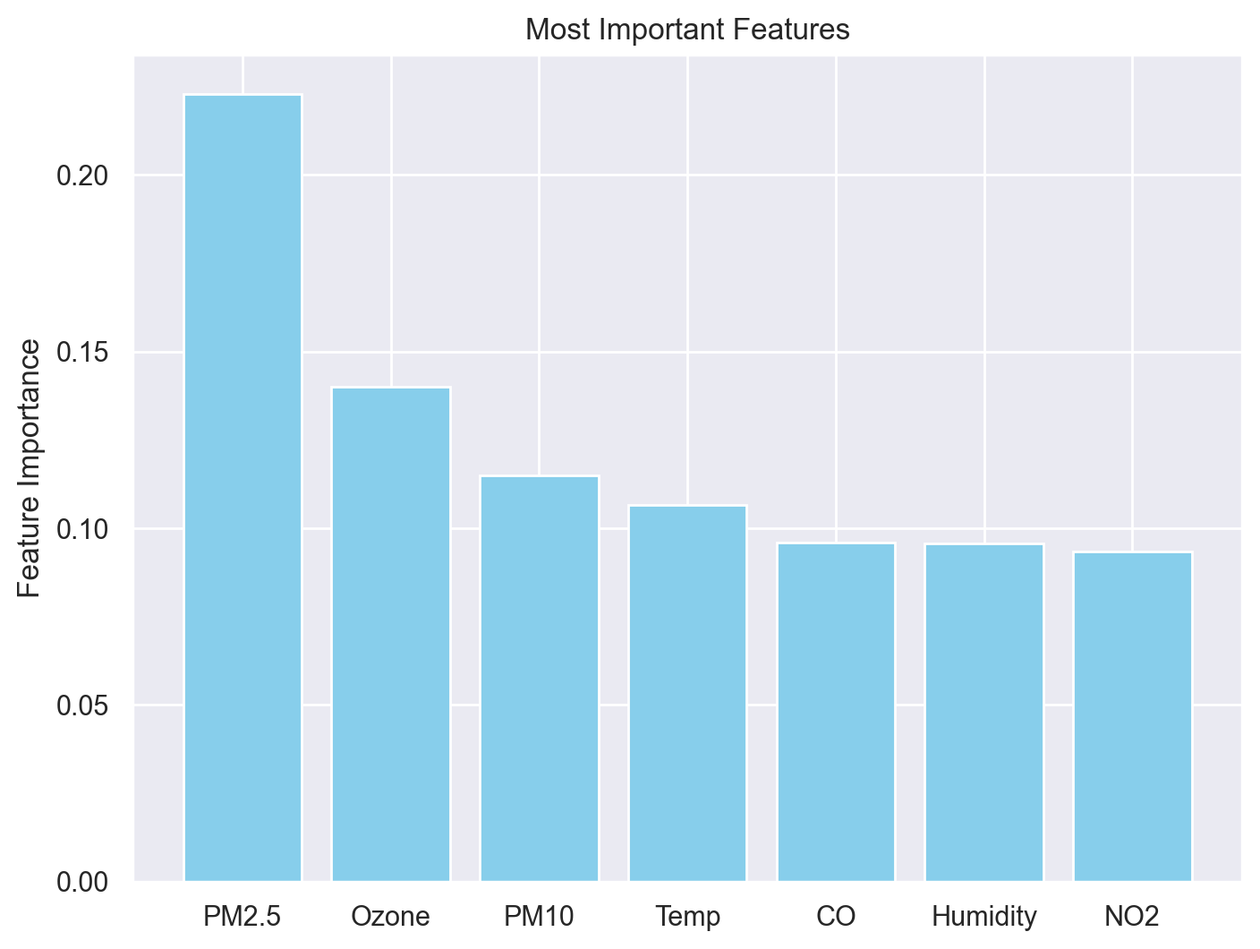
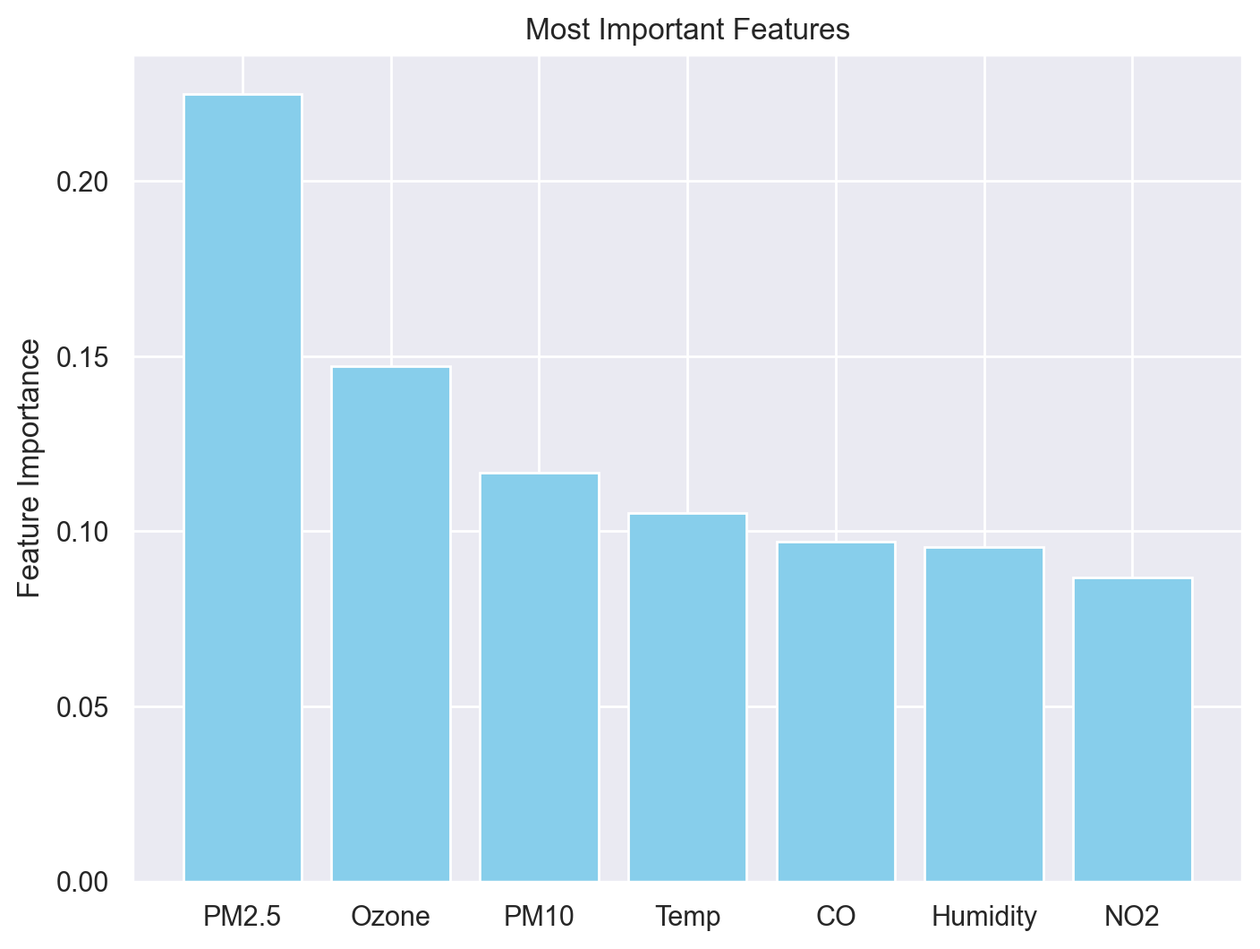
Built site for gh-pages

diff --git a/capstone.html b/capstone.html
@@ -24,40 +24,6 @@ ul.task-list li input[type="checkbox"] {
   margin: 0 0.8em 0.2em -1em; /* quarto-specific, see https://github.com/quarto-dev/quarto-cli/issues/4556 */ 
   vertical-align: middle;
 }
-/* CSS for syntax highlighting */
-pre > code.sourceCode { white-space: pre; position: relative; }
-pre > code.sourceCode > span { line-height: 1.25; }
-pre > code.sourceCode > span:empty { height: 1.2em; }
-.sourceCode { overflow: visible; }
-code.sourceCode > span { color: inherit; text-decoration: inherit; }
-div.sourceCode { margin: 1em 0; }
-pre.sourceCode { margin: 0; }
-@media screen {
-div.sourceCode { overflow: auto; }
-}
-@media print {
-pre > code.sourceCode { white-space: pre-wrap; }
-pre > code.sourceCode > span { display: inline-block; text-indent: -5em; padding-left: 5em; }
-}
-pre.numberSource code
-  { counter-reset: source-line 0; }
-pre.numberSource code > span
-  { position: relative; left: -4em; counter-increment: source-line; }
-pre.numberSource code > span > a:first-child::before
-  { content: counter(source-line);
-    position: relative; left: -1em; text-align: right; vertical-align: baseline;
-    border: none; display: inline-block;
-    -webkit-touch-callout: none; -webkit-user-select: none;
-    -khtml-user-select: none; -moz-user-select: none;
-    -ms-user-select: none; user-select: none;
-    padding: 0 4px; width: 4em;
-  }
-pre.numberSource { margin-left: 3em;  padding-left: 4px; }
-div.sourceCode
-  {   }
-@media screen {
-pre > code.sourceCode > span > a:first-child::before { text-decoration: underline; }
-}
 </style>
 
 
@@ -106,12 +72,8 @@ pre > code.sourceCode > span > a:first-child::before { text-decoration: underlin
 <style>html{ scroll-behavior: smooth; }</style>
 <script src="https://cdnjs.cloudflare.com/ajax/libs/require.js/2.3.6/require.min.js" integrity="sha512-c3Nl8+7g4LMSTdrm621y7kf9v3SDPnhxLNhcjFJbKECVnmZHTdo+IRO05sNLTH/D3vA6u1X32ehoLC7WFVdheg==" crossorigin="anonymous"></script>
 
-
-
 <script type="application/javascript">define('jquery', [],function() {return window.jQuery;})</script>
-
 <script src="https://unpkg.com/@jupyter-widgets/html-manager@*/dist/embed-amd.js" crossorigin="anonymous"></script>
-
 
   <script src="https://cdnjs.cloudflare.com/polyfill/v3/polyfill.min.js?features=es6"></script>
   <script src="https://cdn.jsdelivr.net/npm/mathjax@3/es5/tex-chtml-full.js" type="text/javascript"></script>
@@ -153,7 +115,7 @@ window.Quarto = {
 <header id="title-block-header" class="quarto-title-block default toc-left page-columns page-full">
   <div class="quarto-title-banner page-columns page-full">
     <div class="quarto-title column-body">
-      <div class="quarto-title-block"><div><h1 class="title">Unveiling the Drivers of Clean Air</h1><button type="button" class="btn code-tools-button" id="quarto-code-tools-source"><i class="bi"></i></button></div></div>
+      <h1 class="title">Unveiling the Drivers of Clean Air</h1>
             <p class="subtitle lead">Analysis of Portland Air Quality (AQI)</p>
                       </div>
   </div>
@@ -268,7 +230,10 @@ window.Quarto = {
   </ul></li>
   <li><a href="#conclusion" id="toc-conclusion" class="nav-link" data-scroll-target="#conclusion">Conclusion</a></li>
   <li><a href="#bibliography" id="toc-bibliography" class="nav-link" data-scroll-target="#bibliography">Bibliography</a></li>
+  <li><a href="#reference" id="toc-reference" class="nav-link" data-scroll-target="#reference">Reference</a>
+  <ul class="collapse">
   <li><a href="#metrics-to-evaluate-machine-model-performance" id="toc-metrics-to-evaluate-machine-model-performance" class="nav-link" data-scroll-target="#metrics-to-evaluate-machine-model-performance">Metrics to Evaluate Machine Model Performance</a></li>
+  </ul></li>
   </ul>
 <div class="quarto-other-links"><h2>Other Links</h2><ul><li><a href="https://www.airnow.gov"><i class="bi bi-link-45deg"></i>Airnow Open Data</a></li></ul></div><div class="quarto-code-links"><h2>Code Links</h2><ul><li><a href="SWEETVIZ_REPORT.html"><i class="bi bi-file-code"></i>Sweetviz Analysis Report</a></li><li><a href="your_report2.html"><i class="bi bi-file-code"></i>ydata Analysis Report</a></li></ul></div></nav>
 </nav>
@@ -475,7 +440,7 @@ window.Quarto = {
 <div id="cell-sweetvis-report" class="cell" data-execution_count="9">
 <div id="sweetvis-report" class="cell-output cell-output-display">
 <script type="application/vnd.jupyter.widget-view+json">
-{"model_id":"57a8420395b442cda2ac467d808f207e","version_major":2,"version_minor":0,"quarto_mimetype":"application/vnd.jupyter.widget-view+json"}
+{"model_id":"2d8f297a278d42d282a6188a1ceb42eb","version_major":2,"version_minor":0,"quarto_mimetype":"application/vnd.jupyter.widget-view+json"}
 </script>
 </div>
 <div class="cell-output cell-output-stdout">
@@ -745,8 +710,8 @@ For recognized time series features: - Histograms are replaced with line plots -
 <tr class="even">
 <td data-quarto-table-cell-role="th">1</td>
 <td>Tree</td>
-<td>0.379842</td>
-<td>0.513337</td>
+<td>0.387534</td>
+<td>0.519869</td>
 </tr>
 <tr class="odd">
 <td data-quarto-table-cell-role="th">2</td>
@@ -807,17 +772,17 @@ For recognized time series features: - Histograms are replaced with line plots -
 <tr class="even">
 <td data-quarto-table-cell-role="th">1</td>
 <td>RF_model__max_depth</td>
-<td>27</td>
+<td>24</td>
 </tr>
 <tr class="odd">
 <td data-quarto-table-cell-role="th">2</td>
 <td>RF_model__max_features</td>
-<td>log2</td>
+<td>None</td>
 </tr>
 <tr class="even">
 <td data-quarto-table-cell-role="th">3</td>
 <td>RF_model__min_samples_leaf</td>
-<td>2</td>
+<td>6</td>
 </tr>
 <tr class="odd">
 <td data-quarto-table-cell-role="th">4</td>
@@ -827,17 +792,17 @@ For recognized time series features: - Histograms are replaced with line plots -
 <tr class="even">
 <td data-quarto-table-cell-role="th">5</td>
 <td>RF_model__n_estimators</td>
-<td>75</td>
+<td>69</td>
 </tr>
 <tr class="odd">
 <td data-quarto-table-cell-role="th">6</td>
 <td>aqi_transformer__categories__max_categories</td>
-<td>24</td>
+<td>5</td>
 </tr>
 <tr class="even">
 <td data-quarto-table-cell-role="th">7</td>
 <td>aqi_transformer__categories__min_frequency</td>
-<td>15</td>
+<td>17</td>
 </tr>
 </tbody>
 </table>
@@ -849,8 +814,8 @@ For recognized time series features: - Histograms are replaced with line plots -
 <p>Using these hyperparameters, we reach an accuracy of about 63%.</p>
 <div id="predict-x_test" class="cell" data-execution_count="44">
 <div class="cell-output cell-output-stdout">
-<pre><code>Cohen Kappa Score:  0.5176020226092839
-Accuracy:  0.6314643440391944</code></pre>
+<pre><code>Cohen Kappa Score:  0.4413738666666668
+Accuracy:  0.5732172019597169</code></pre>
 </div>
 </div>
 <p><img src="https://github.com/wu-msds-capstones/Air-Quality-Index/blob/main/images/AirQuality-ConfusionMatrix_init2.png?raw=true" class="img-fluid" alt="AirQuality Confusion Matrix 2"> (Figure 4582)</p>
@@ -874,93 +839,93 @@ Accuracy:  0.6314643440391944</code></pre>
 <tbody>
 <tr class="odd">
 <td data-quarto-table-cell-role="th">0-30</td>
-<td>0.789474</td>
-<td>0.306122</td>
-<td>0.441176</td>
+<td>0.750000</td>
+<td>0.428571</td>
+<td>0.545455</td>
 <td>49.000000</td>
 </tr>
 <tr class="even">
 <td data-quarto-table-cell-role="th">101-150</td>
-<td>0.528302</td>
-<td>0.622222</td>
-<td>0.571429</td>
+<td>0.388889</td>
+<td>0.155556</td>
+<td>0.222222</td>
 <td>45.000000</td>
 </tr>
 <tr class="odd">
 <td data-quarto-table-cell-role="th">151+</td>
-<td>1.000000</td>
-<td>0.150000</td>
-<td>0.260870</td>
+<td>0.000000</td>
+<td>0.000000</td>
+<td>0.000000</td>
 <td>20.000000</td>
 </tr>
 <tr class="even">
 <td data-quarto-table-cell-role="th">31-40</td>
-<td>0.722353</td>
-<td>0.799479</td>
-<td>0.758962</td>
+<td>0.683333</td>
+<td>0.747396</td>
+<td>0.713930</td>
 <td>384.000000</td>
 </tr>
 <tr class="odd">
 <td data-quarto-table-cell-role="th">41-50</td>
-<td>0.695955</td>
-<td>0.793323</td>
-<td>0.741456</td>
+<td>0.636107</td>
+<td>0.717011</td>
+<td>0.674141</td>
 <td>629.000000</td>
 </tr>
 <tr class="even">
 <td data-quarto-table-cell-role="th">51-60</td>
-<td>0.576623</td>
-<td>0.587302</td>
-<td>0.581913</td>
+<td>0.491139</td>
+<td>0.513228</td>
+<td>0.501940</td>
 <td>378.000000</td>
 </tr>
 <tr class="odd">
 <td data-quarto-table-cell-role="th">61-70</td>
-<td>0.382716</td>
-<td>0.352273</td>
-<td>0.366864</td>
+<td>0.363128</td>
+<td>0.369318</td>
+<td>0.366197</td>
 <td>176.000000</td>
 </tr>
 <tr class="even">
 <td data-quarto-table-cell-role="th">71-80</td>
-<td>0.372093</td>
-<td>0.183908</td>
-<td>0.246154</td>
+<td>0.315789</td>
+<td>0.206897</td>
+<td>0.250000</td>
 <td>87.000000</td>
 </tr>
 <tr class="odd">
 <td data-quarto-table-cell-role="th">81-90</td>
-<td>0.285714</td>
-<td>0.133333</td>
-<td>0.181818</td>
+<td>0.333333</td>
+<td>0.177778</td>
+<td>0.231884</td>
 <td>45.000000</td>
 </tr>
 <tr class="even">
 <td data-quarto-table-cell-role="th">91-100</td>
-<td>0.222222</td>
+<td>0.285714</td>
 <td>0.083333</td>
-<td>0.121212</td>
+<td>0.129032</td>
 <td>24.000000</td>
 </tr>
 <tr class="odd">
 <td data-quarto-table-cell-role="th">accuracy</td>
-<td>0.631464</td>
-<td>0.631464</td>
-<td>0.631464</td>
-<td>0.631464</td>
+<td>0.573217</td>
+<td>0.573217</td>
+<td>0.573217</td>
+<td>0.573217</td>
 </tr>
 <tr class="even">
 <td data-quarto-table-cell-role="th">macro avg</td>
-<td>0.557545</td>
-<td>0.401130</td>
-<td>0.427185</td>
+<td>0.424743</td>
+<td>0.339909</td>
+<td>0.363480</td>
 <td>1837.000000</td>
 </tr>
 <tr class="odd">
 <td data-quarto-table-cell-role="th">weighted avg</td>
-<td>0.617029</td>
-<td>0.631464</td>
-<td>0.613720</td>
+<td>0.552887</td>
+<td>0.573217</td>
+<td>0.557636</td>
 <td>1837.000000</td>
 </tr>
 </tbody>
@@ -1185,8 +1150,10 @@ sigma2       134.1503   3.35e+05      0.000      1.000   -6.57e+05    6.57e+05
 <p>World Health Organization. (2022, October 31). <em>Lead poisoning and health</em>. <a href="https://www.who.int/news-room/fact-sheets/detail/lead-poisoning-and-health">www.who.int/news-room/fact-sheets/detail/lead-poisoning-and-health</a></p>
 <p>Zhang, Y., Cooper, O. R., Gaudel, A., Thompson, A. M., Nédélec, P., Ogino, S. Y., &amp; West, J. J. (2018). Tropospheric ozone change from 1980 to 2010 dominated by equatorward redistribution of emissions. <em>Nature Geoscience</em>, <em>11</em>, 637-644. <a href="https://acp.copernicus.org/articles/18/15003/2018/">acp.copernicus.org/articles/18/15003/2018/</a></p>
 </section>
-<section id="metrics-to-evaluate-machine-model-performance" class="level1">
-<h1>Metrics to Evaluate Machine Model Performance</h1>
+<section id="reference" class="level1">
+<h1>Reference</h1>
+<section id="metrics-to-evaluate-machine-model-performance" class="level2">
+<h2 class="anchored" data-anchor-id="metrics-to-evaluate-machine-model-performance">Metrics to Evaluate Machine Model Performance</h2>
 <table class="caption-top table">
 <colgroup>
 <col style="width: 26%">
@@ -1291,17 +1258,13 @@ sigma2       134.1503   3.35e+05      0.000      1.000   -6.57e+05    6.57e+05
 </table>
 
 
-<!-- -->
-
+</section>
 </section>
 
 </main> <!-- /main -->
 <script type="application/vnd.jupyter.widget-state+json">
-
-{"state":{"30d406413296432eada704f02197310e":{"model_module":"@jupyter-widgets/base","model_module_version":"2.0.0","model_name":"LayoutModel","state":{"_model_module":"@jupyter-widgets/base","_model_module_version":"2.0.0","_model_name":"LayoutModel","_view_count":null,"_view_module":"@jupyter-widgets/base","_view_module_version":"2.0.0","_view_name":"LayoutView","align_content":null,"align_items":null,"align_self":null,"border_bottom":null,"border_left":null,"border_right":null,"border_top":null,"bottom":null,"display":null,"flex":null,"flex_flow":null,"grid_area":null,"grid_auto_columns":null,"grid_auto_flow":null,"grid_auto_rows":null,"grid_column":null,"grid_gap":null,"grid_row":null,"grid_template_areas":null,"grid_template_columns":null,"grid_template_rows":null,"height":null,"justify_content":null,"justify_items":null,"left":null,"margin":null,"max_height":null,"max_width":null,"min_height":null,"min_width":null,"object_fit":null,"object_position":null,"order":null,"overflow":null,"padding":null,"right":null,"top":null,"visibility":null,"width":null}},"3dd74f3ae8144c828b4dc20c40de7147":{"model_module":"@jupyter-widgets/controls","model_module_version":"2.0.0","model_name":"HTMLModel","state":{"_dom_classes":[],"_model_module":"@jupyter-widgets/controls","_model_module_version":"2.0.0","_model_name":"HTMLModel","_view_count":null,"_view_module":"@jupyter-widgets/controls","_view_module_version":"2.0.0","_view_name":"HTMLView","description":"","description_allow_html":false,"layout":"IPY_MODEL_a01534291410446aa523c402235e245d","placeholder":"","style":"IPY_MODEL_ad4720b273464b2cb26dc66f791c3e27","tabbable":null,"tooltip":null,"value":"Done! Use &#x27;show&#x27; commands to display/save.   "}},"3df8f0e47cb4497bbeedcee47414f9f8":{"model_module":"@jupyter-widgets/controls","model_module_version":"2.0.0","model_name":"FloatProgressModel","state":{"_dom_classes":[],"_model_module":"@jupyter-widgets/controls","_model_module_version":"2.0.0","_model_name":"FloatProgressModel","_view_count":null,"_view_module":"@jupyter-widgets/controls","_view_module_version":"2.0.0","_view_name":"ProgressView","bar_style":"success","description":"","description_allow_html":false,"layout":"IPY_MODEL_d9a143a7678f4aa8af3c40268367ce18","max":1,"min":0,"orientation":"horizontal","style":"IPY_MODEL_9a0a52849b7f4c75b27d37b36a4c628b","tabbable":null,"tooltip":null,"value":1}},"40e1604551ea462888294cc5160a9ee4":{"model_module":"@jupyter-widgets/base","model_module_version":"2.0.0","model_name":"LayoutModel","state":{"_model_module":"@jupyter-widgets/base","_model_module_version":"2.0.0","_model_name":"LayoutModel","_view_count":null,"_view_module":"@jupyter-widgets/base","_view_module_version":"2.0.0","_view_name":"LayoutView","align_content":null,"align_items":null,"align_self":null,"border_bottom":null,"border_left":null,"border_right":null,"border_top":null,"bottom":null,"display":"inline-flex","flex":null,"flex_flow":"row wrap","grid_area":null,"grid_auto_columns":null,"grid_auto_flow":null,"grid_auto_rows":null,"grid_column":null,"grid_gap":null,"grid_row":null,"grid_template_areas":null,"grid_template_columns":null,"grid_template_rows":null,"height":null,"justify_content":null,"justify_items":null,"left":null,"margin":null,"max_height":null,"max_width":null,"min_height":null,"min_width":null,"object_fit":null,"object_position":null,"order":null,"overflow":null,"padding":null,"right":null,"top":null,"visibility":null,"width":"100%"}},"57a8420395b442cda2ac467d808f207e":{"model_module":"@jupyter-widgets/controls","model_module_version":"2.0.0","model_name":"HBoxModel","state":{"_dom_classes":[],"_model_module":"@jupyter-widgets/controls","_model_module_version":"2.0.0","_model_name":"HBoxModel","_view_count":null,"_view_module":"@jupyter-widgets/controls","_view_module_version":"2.0.0","_view_name":"HBoxView","box_style":"","children":["IPY_MODEL_3dd74f3ae8144c828b4dc20c40de7147","IPY_MODEL_3df8f0e47cb4497bbeedcee47414f9f8","IPY_MODEL_b7fccdfe13b740ea94192321c51fff02"],"layout":"IPY_MODEL_40e1604551ea462888294cc5160a9ee4","tabbable":null,"tooltip":null}},"9a0a52849b7f4c75b27d37b36a4c628b":{"model_module":"@jupyter-widgets/controls","model_module_version":"2.0.0","model_name":"ProgressStyleModel","state":{"_model_module":"@jupyter-widgets/controls","_model_module_version":"2.0.0","_model_name":"ProgressStyleModel","_view_count":null,"_view_module":"@jupyter-widgets/base","_view_module_version":"2.0.0","_view_name":"StyleView","bar_color":null,"description_width":""}},"a01534291410446aa523c402235e245d":{"model_module":"@jupyter-widgets/base","model_module_version":"2.0.0","model_name":"LayoutModel","state":{"_model_module":"@jupyter-widgets/base","_model_module_version":"2.0.0","_model_name":"LayoutModel","_view_count":null,"_view_module":"@jupyter-widgets/base","_view_module_version":"2.0.0","_view_name":"LayoutView","align_content":null,"align_items":null,"align_self":null,"border_bottom":null,"border_left":null,"border_right":null,"border_top":null,"bottom":null,"display":null,"flex":null,"flex_flow":null,"grid_area":null,"grid_auto_columns":null,"grid_auto_flow":null,"grid_auto_rows":null,"grid_column":null,"grid_gap":null,"grid_row":null,"grid_template_areas":null,"grid_template_columns":null,"grid_template_rows":null,"height":null,"justify_content":null,"justify_items":null,"left":null,"margin":null,"max_height":null,"max_width":null,"min_height":null,"min_width":null,"object_fit":null,"object_position":null,"order":null,"overflow":null,"padding":null,"right":null,"top":null,"visibility":null,"width":null}},"ad4720b273464b2cb26dc66f791c3e27":{"model_module":"@jupyter-widgets/controls","model_module_version":"2.0.0","model_name":"HTMLStyleModel","state":{"_model_module":"@jupyter-widgets/controls","_model_module_version":"2.0.0","_model_name":"HTMLStyleModel","_view_count":null,"_view_module":"@jupyter-widgets/base","_view_module_version":"2.0.0","_view_name":"StyleView","background":null,"description_width":"","font_size":null,"text_color":null}},"b7fccdfe13b740ea94192321c51fff02":{"model_module":"@jupyter-widgets/controls","model_module_version":"2.0.0","model_name":"HTMLModel","state":{"_dom_classes":[],"_model_module":"@jupyter-widgets/controls","_model_module_version":"2.0.0","_model_name":"HTMLModel","_view_count":null,"_view_module":"@jupyter-widgets/controls","_view_module_version":"2.0.0","_view_name":"HTMLView","description":"","description_allow_html":false,"layout":"IPY_MODEL_30d406413296432eada704f02197310e","placeholder":"","style":"IPY_MODEL_b81e4fb5ebbf4997897f157439051b14","tabbable":null,"tooltip":null,"value":" [100%]   00:01 -&gt; (00:00 left)"}},"b81e4fb5ebbf4997897f157439051b14":{"model_module":"@jupyter-widgets/controls","model_module_version":"2.0.0","model_name":"HTMLStyleModel","state":{"_model_module":"@jupyter-widgets/controls","_model_module_version":"2.0.0","_model_name":"HTMLStyleModel","_view_count":null,"_view_module":"@jupyter-widgets/base","_view_module_version":"2.0.0","_view_name":"StyleView","background":null,"description_width":"","font_size":null,"text_color":null}},"d9a143a7678f4aa8af3c40268367ce18":{"model_module":"@jupyter-widgets/base","model_module_version":"2.0.0","model_name":"LayoutModel","state":{"_model_module":"@jupyter-widgets/base","_model_module_version":"2.0.0","_model_name":"LayoutModel","_view_count":null,"_view_module":"@jupyter-widgets/base","_view_module_version":"2.0.0","_view_name":"LayoutView","align_content":null,"align_items":null,"align_self":null,"border_bottom":null,"border_left":null,"border_right":null,"border_top":null,"bottom":null,"display":null,"flex":"2","flex_flow":null,"grid_area":null,"grid_auto_columns":null,"grid_auto_flow":null,"grid_auto_rows":null,"grid_column":null,"grid_gap":null,"grid_row":null,"grid_template_areas":null,"grid_template_columns":null,"grid_template_rows":null,"height":null,"justify_content":null,"justify_items":null,"left":null,"margin":null,"max_height":null,"max_width":null,"min_height":null,"min_width":null,"object_fit":null,"object_position":null,"order":null,"overflow":null,"padding":null,"right":null,"top":null,"visibility":null,"width":null}}},"version_major":2,"version_minor":0}
-
+{"state":{"063d7bff1e7548d88ce41069695fa988":{"model_module":"@jupyter-widgets/base","model_module_version":"2.0.0","model_name":"LayoutModel","state":{"_model_module":"@jupyter-widgets/base","_model_module_version":"2.0.0","_model_name":"LayoutModel","_view_count":null,"_view_module":"@jupyter-widgets/base","_view_module_version":"2.0.0","_view_name":"LayoutView","align_content":null,"align_items":null,"align_self":null,"border_bottom":null,"border_left":null,"border_right":null,"border_top":null,"bottom":null,"display":"inline-flex","flex":null,"flex_flow":"row wrap","grid_area":null,"grid_auto_columns":null,"grid_auto_flow":null,"grid_auto_rows":null,"grid_column":null,"grid_gap":null,"grid_row":null,"grid_template_areas":null,"grid_template_columns":null,"grid_template_rows":null,"height":null,"justify_content":null,"justify_items":null,"left":null,"margin":null,"max_height":null,"max_width":null,"min_height":null,"min_width":null,"object_fit":null,"object_position":null,"order":null,"overflow":null,"padding":null,"right":null,"top":null,"visibility":null,"width":"100%"}},"18d115ff1ac14a12ba7bba636a20cceb":{"model_module":"@jupyter-widgets/controls","model_module_version":"2.0.0","model_name":"FloatProgressModel","state":{"_dom_classes":[],"_model_module":"@jupyter-widgets/controls","_model_module_version":"2.0.0","_model_name":"FloatProgressModel","_view_count":null,"_view_module":"@jupyter-widgets/controls","_view_module_version":"2.0.0","_view_name":"ProgressView","bar_style":"success","description":"","description_allow_html":false,"layout":"IPY_MODEL_6bfc8b8029424453bc9dfb3977849c4b","max":1,"min":0,"orientation":"horizontal","style":"IPY_MODEL_1dc6f37f36c14bb4bf7bdc69a66365ee","tabbable":null,"tooltip":null,"value":1}},"1dc6f37f36c14bb4bf7bdc69a66365ee":{"model_module":"@jupyter-widgets/controls","model_module_version":"2.0.0","model_name":"ProgressStyleModel","state":{"_model_module":"@jupyter-widgets/controls","_model_module_version":"2.0.0","_model_name":"ProgressStyleModel","_view_count":null,"_view_module":"@jupyter-widgets/base","_view_module_version":"2.0.0","_view_name":"StyleView","bar_color":null,"description_width":""}},"2c2d4bcec73746e4af5129ace6ba7e4f":{"model_module":"@jupyter-widgets/controls","model_module_version":"2.0.0","model_name":"HTMLStyleModel","state":{"_model_module":"@jupyter-widgets/controls","_model_module_version":"2.0.0","_model_name":"HTMLStyleModel","_view_count":null,"_view_module":"@jupyter-widgets/base","_view_module_version":"2.0.0","_view_name":"StyleView","background":null,"description_width":"","font_size":null,"text_color":null}},"2d8f297a278d42d282a6188a1ceb42eb":{"model_module":"@jupyter-widgets/controls","model_module_version":"2.0.0","model_name":"HBoxModel","state":{"_dom_classes":[],"_model_module":"@jupyter-widgets/controls","_model_module_version":"2.0.0","_model_name":"HBoxModel","_view_count":null,"_view_module":"@jupyter-widgets/controls","_view_module_version":"2.0.0","_view_name":"HBoxView","box_style":"","children":["IPY_MODEL_e4d6d7cbfdd0420793071ff062edcf8c","IPY_MODEL_18d115ff1ac14a12ba7bba636a20cceb","IPY_MODEL_7658ca30faa14086a5de9f10f2244826"],"layout":"IPY_MODEL_063d7bff1e7548d88ce41069695fa988","tabbable":null,"tooltip":null}},"6bfc8b8029424453bc9dfb3977849c4b":{"model_module":"@jupyter-widgets/base","model_module_version":"2.0.0","model_name":"LayoutModel","state":{"_model_module":"@jupyter-widgets/base","_model_module_version":"2.0.0","_model_name":"LayoutModel","_view_count":null,"_view_module":"@jupyter-widgets/base","_view_module_version":"2.0.0","_view_name":"LayoutView","align_content":null,"align_items":null,"align_self":null,"border_bottom":null,"border_left":null,"border_right":null,"border_top":null,"bottom":null,"display":null,"flex":"2","flex_flow":null,"grid_area":null,"grid_auto_columns":null,"grid_auto_flow":null,"grid_auto_rows":null,"grid_column":null,"grid_gap":null,"grid_row":null,"grid_template_areas":null,"grid_template_columns":null,"grid_template_rows":null,"height":null,"justify_content":null,"justify_items":null,"left":null,"margin":null,"max_height":null,"max_width":null,"min_height":null,"min_width":null,"object_fit":null,"object_position":null,"order":null,"overflow":null,"padding":null,"right":null,"top":null,"visibility":null,"width":null}},"7658ca30faa14086a5de9f10f2244826":{"model_module":"@jupyter-widgets/controls","model_module_version":"2.0.0","model_name":"HTMLModel","state":{"_dom_classes":[],"_model_module":"@jupyter-widgets/controls","_model_module_version":"2.0.0","_model_name":"HTMLModel","_view_count":null,"_view_module":"@jupyter-widgets/controls","_view_module_version":"2.0.0","_view_name":"HTMLView","description":"","description_allow_html":false,"layout":"IPY_MODEL_f94de238000d44ebb8847cf6bb92910a","placeholder":"","style":"IPY_MODEL_2c2d4bcec73746e4af5129ace6ba7e4f","tabbable":null,"tooltip":null,"value":" [100%]   00:01 -&gt; (00:00 left)"}},"98740571b04f4bd599eb0d5cbb68516b":{"model_module":"@jupyter-widgets/base","model_module_version":"2.0.0","model_name":"LayoutModel","state":{"_model_module":"@jupyter-widgets/base","_model_module_version":"2.0.0","_model_name":"LayoutModel","_view_count":null,"_view_module":"@jupyter-widgets/base","_view_module_version":"2.0.0","_view_name":"LayoutView","align_content":null,"align_items":null,"align_self":null,"border_bottom":null,"border_left":null,"border_right":null,"border_top":null,"bottom":null,"display":null,"flex":null,"flex_flow":null,"grid_area":null,"grid_auto_columns":null,"grid_auto_flow":null,"grid_auto_rows":null,"grid_column":null,"grid_gap":null,"grid_row":null,"grid_template_areas":null,"grid_template_columns":null,"grid_template_rows":null,"height":null,"justify_content":null,"justify_items":null,"left":null,"margin":null,"max_height":null,"max_width":null,"min_height":null,"min_width":null,"object_fit":null,"object_position":null,"order":null,"overflow":null,"padding":null,"right":null,"top":null,"visibility":null,"width":null}},"b0437ccc0c7441b3b55ab4462035f844":{"model_module":"@jupyter-widgets/controls","model_module_version":"2.0.0","model_name":"HTMLStyleModel","state":{"_model_module":"@jupyter-widgets/controls","_model_module_version":"2.0.0","_model_name":"HTMLStyleModel","_view_count":null,"_view_module":"@jupyter-widgets/base","_view_module_version":"2.0.0","_view_name":"StyleView","background":null,"description_width":"","font_size":null,"text_color":null}},"e4d6d7cbfdd0420793071ff062edcf8c":{"model_module":"@jupyter-widgets/controls","model_module_version":"2.0.0","model_name":"HTMLModel","state":{"_dom_classes":[],"_model_module":"@jupyter-widgets/controls","_model_module_version":"2.0.0","_model_name":"HTMLModel","_view_count":null,"_view_module":"@jupyter-widgets/controls","_view_module_version":"2.0.0","_view_name":"HTMLView","description":"","description_allow_html":false,"layout":"IPY_MODEL_98740571b04f4bd599eb0d5cbb68516b","placeholder":"","style":"IPY_MODEL_b0437ccc0c7441b3b55ab4462035f844","tabbable":null,"tooltip":null,"value":"Done! Use &#x27;show&#x27; commands to display/save.   "}},"f94de238000d44ebb8847cf6bb92910a":{"model_module":"@jupyter-widgets/base","model_module_version":"2.0.0","model_name":"LayoutModel","state":{"_model_module":"@jupyter-widgets/base","_model_module_version":"2.0.0","_model_name":"LayoutModel","_view_count":null,"_view_module":"@jupyter-widgets/base","_view_module_version":"2.0.0","_view_name":"LayoutView","align_content":null,"align_items":null,"align_self":null,"border_bottom":null,"border_left":null,"border_right":null,"border_top":null,"bottom":null,"display":null,"flex":null,"flex_flow":null,"grid_area":null,"grid_auto_columns":null,"grid_auto_flow":null,"grid_auto_rows":null,"grid_column":null,"grid_gap":null,"grid_row":null,"grid_template_areas":null,"grid_template_columns":null,"grid_template_rows":null,"height":null,"justify_content":null,"justify_items":null,"left":null,"margin":null,"max_height":null,"max_width":null,"min_height":null,"min_width":null,"object_fit":null,"object_position":null,"order":null,"overflow":null,"padding":null,"right":null,"top":null,"visibility":null,"width":null}}},"version_major":2,"version_minor":0}
 </script>
-
 <script id="quarto-html-after-body" type="application/javascript">
 window.document.addEventListener("DOMContentLoaded", function (event) {
   const toggleBodyColorMode = (bsSheetEl) => {
@@ -1772,76 +1735,7 @@ window.document.addEventListener("DOMContentLoaded", function (event) {
     }
   }
 });
-</script><div class="modal fade" id="quarto-embedded-source-code-modal" tabindex="-1" aria-labelledby="quarto-embedded-source-code-modal-label" aria-hidden="true"><div class="modal-dialog modal-dialog-scrollable"><div class="modal-content"><div class="modal-header"><h5 class="modal-title" id="quarto-embedded-source-code-modal-label">Source Code</h5><button class="btn-close" data-bs-dismiss="modal"></button></div><div class="modal-body"><div class="">
-<div class="sourceCode" id="cb8" data-shortcodes="false"><pre class="sourceCode markdown code-with-copy"><code class="sourceCode markdown"><span id="cb8-1"><a href="#cb8-1" aria-hidden="true" tabindex="-1"></a><span class="co">---</span></span>
-<span id="cb8-2"><a href="#cb8-2" aria-hidden="true" tabindex="-1"></a><span class="an">title-block-banner:</span><span class="co"> true</span></span>
-<span id="cb8-3"><a href="#cb8-3" aria-hidden="true" tabindex="-1"></a><span class="an">title:</span><span class="co"> "Unveiling the Drivers of Clean Air"</span></span>
-<span id="cb8-4"><a href="#cb8-4" aria-hidden="true" tabindex="-1"></a><span class="an">subtitle:</span><span class="co"> "Analysis of Portland Air Quality (AQI)"</span></span>
-<span id="cb8-5"><a href="#cb8-5" aria-hidden="true" tabindex="-1"></a><span class="an">date:</span><span class="co"> "2024-08-01"</span></span>
-<span id="cb8-6"><a href="#cb8-6" aria-hidden="true" tabindex="-1"></a><span class="an">author:</span></span>
-<span id="cb8-7"><a href="#cb8-7" aria-hidden="true" tabindex="-1"></a><span class="co">  - name: Stéphane Berhault</span></span>
-<span id="cb8-8"><a href="#cb8-8" aria-hidden="true" tabindex="-1"></a><span class="co">    orcid: 0009-0003-5357-629X</span></span>
-<span id="cb8-9"><a href="#cb8-9" aria-hidden="true" tabindex="-1"></a><span class="co">    email: sgberhault@willamette.edu</span></span>
-<span id="cb8-10"><a href="#cb8-10" aria-hidden="true" tabindex="-1"></a><span class="co">    affiliation: </span></span>
-<span id="cb8-11"><a href="#cb8-11" aria-hidden="true" tabindex="-1"></a><span class="co">      - name: Willamette University</span></span>
-<span id="cb8-12"><a href="#cb8-12" aria-hidden="true" tabindex="-1"></a><span class="co">        city: Portland</span></span>
-<span id="cb8-13"><a href="#cb8-13" aria-hidden="true" tabindex="-1"></a><span class="co">        state: OR</span></span>
-<span id="cb8-14"><a href="#cb8-14" aria-hidden="true" tabindex="-1"></a><span class="co">        url: https://willamette.edu</span></span>
-<span id="cb8-15"><a href="#cb8-15" aria-hidden="true" tabindex="-1"></a><span class="co">  - name: Jake Warmflash</span></span>
-<span id="cb8-16"><a href="#cb8-16" aria-hidden="true" tabindex="-1"></a><span class="co">    email: jwarmflash@willamette.edu</span></span>
-<span id="cb8-17"><a href="#cb8-17" aria-hidden="true" tabindex="-1"></a><span class="co">    affiliation: </span></span>
-<span id="cb8-18"><a href="#cb8-18" aria-hidden="true" tabindex="-1"></a><span class="co">      - name: Willamette University</span></span>
-<span id="cb8-19"><a href="#cb8-19" aria-hidden="true" tabindex="-1"></a><span class="co">        city: Portland</span></span>
-<span id="cb8-20"><a href="#cb8-20" aria-hidden="true" tabindex="-1"></a><span class="co">        state: OR</span></span>
-<span id="cb8-21"><a href="#cb8-21" aria-hidden="true" tabindex="-1"></a><span class="co">        url: https://willamette.edu</span></span>
-<span id="cb8-22"><a href="#cb8-22" aria-hidden="true" tabindex="-1"></a><span class="an">keywords:</span></span>
-<span id="cb8-23"><a href="#cb8-23" aria-hidden="true" tabindex="-1"></a><span class="co">  - AQI</span></span>
-<span id="cb8-24"><a href="#cb8-24" aria-hidden="true" tabindex="-1"></a><span class="co">  - Time Series</span></span>
-<span id="cb8-25"><a href="#cb8-25" aria-hidden="true" tabindex="-1"></a><span class="co">  - Prophet</span></span>
-<span id="cb8-26"><a href="#cb8-26" aria-hidden="true" tabindex="-1"></a><span class="co">  - SARIMAX</span></span>
-<span id="cb8-27"><a href="#cb8-27" aria-hidden="true" tabindex="-1"></a><span class="co">  - Scikit-Learn</span></span>
-<span id="cb8-28"><a href="#cb8-28" aria-hidden="true" tabindex="-1"></a><span class="an">execute:</span></span>
-<span id="cb8-29"><a href="#cb8-29" aria-hidden="true" tabindex="-1"></a><span class="co">  echo: false</span></span>
-<span id="cb8-30"><a href="#cb8-30" aria-hidden="true" tabindex="-1"></a><span class="co">  warning: false</span></span>
-<span id="cb8-31"><a href="#cb8-31" aria-hidden="true" tabindex="-1"></a><span class="an">jupyter:</span><span class="co"> python3</span></span>
-<span id="cb8-32"><a href="#cb8-32" aria-hidden="true" tabindex="-1"></a><span class="an">format:</span></span>
-<span id="cb8-33"><a href="#cb8-33" aria-hidden="true" tabindex="-1"></a><span class="co">  html:</span></span>
-<span id="cb8-34"><a href="#cb8-34" aria-hidden="true" tabindex="-1"></a><span class="co">    theme: cerulean</span></span>
-<span id="cb8-35"><a href="#cb8-35" aria-hidden="true" tabindex="-1"></a><span class="co">    fig-width: 8</span></span>
-<span id="cb8-36"><a href="#cb8-36" aria-hidden="true" tabindex="-1"></a><span class="co">    fig-height: 6</span></span>
-<span id="cb8-37"><a href="#cb8-37" aria-hidden="true" tabindex="-1"></a><span class="co">    code-fold: true</span></span>
-<span id="cb8-38"><a href="#cb8-38" aria-hidden="true" tabindex="-1"></a><span class="co">    code-tools:</span></span>
-<span id="cb8-39"><a href="#cb8-39" aria-hidden="true" tabindex="-1"></a><span class="co">      source: true</span></span>
-<span id="cb8-40"><a href="#cb8-40" aria-hidden="true" tabindex="-1"></a><span class="co">      toggle: true</span></span>
-<span id="cb8-41"><a href="#cb8-41" aria-hidden="true" tabindex="-1"></a><span class="co">      caption: none</span></span>
-<span id="cb8-42"><a href="#cb8-42" aria-hidden="true" tabindex="-1"></a><span class="co">    smooth-scroll: true</span></span>
-<span id="cb8-43"><a href="#cb8-43" aria-hidden="true" tabindex="-1"></a><span class="co">    toc: true</span></span>
-<span id="cb8-44"><a href="#cb8-44" aria-hidden="true" tabindex="-1"></a><span class="co">    toc-location: left</span></span>
-<span id="cb8-45"><a href="#cb8-45" aria-hidden="true" tabindex="-1"></a><span class="co">    toc-title: Contents</span></span>
-<span id="cb8-46"><a href="#cb8-46" aria-hidden="true" tabindex="-1"></a><span class="co">    number-sections: false</span></span>
-<span id="cb8-47"><a href="#cb8-47" aria-hidden="true" tabindex="-1"></a><span class="co">    other-links:</span></span>
-<span id="cb8-48"><a href="#cb8-48" aria-hidden="true" tabindex="-1"></a><span class="co">      - text: Airnow Open Data</span></span>
-<span id="cb8-49"><a href="#cb8-49" aria-hidden="true" tabindex="-1"></a><span class="co">        href: https://www.airnow.gov</span></span>
-<span id="cb8-50"><a href="#cb8-50" aria-hidden="true" tabindex="-1"></a><span class="co">    code-links:</span></span>
-<span id="cb8-51"><a href="#cb8-51" aria-hidden="true" tabindex="-1"></a><span class="co">      - text: Sweetviz Analysis Report</span></span>
-<span id="cb8-52"><a href="#cb8-52" aria-hidden="true" tabindex="-1"></a><span class="co">        icon: file-code</span></span>
-<span id="cb8-53"><a href="#cb8-53" aria-hidden="true" tabindex="-1"></a><span class="co">        href: SWEETVIZ_REPORT.html</span></span>
-<span id="cb8-54"><a href="#cb8-54" aria-hidden="true" tabindex="-1"></a><span class="co">      - text: ydata Analysis Report</span></span>
-<span id="cb8-55"><a href="#cb8-55" aria-hidden="true" tabindex="-1"></a><span class="co">        icon: file-code</span></span>
-<span id="cb8-56"><a href="#cb8-56" aria-hidden="true" tabindex="-1"></a><span class="co">        href: your_report2.html</span></span>
-<span id="cb8-57"><a href="#cb8-57" aria-hidden="true" tabindex="-1"></a><span class="co">    html-math-method: mathjax</span></span>
-<span id="cb8-58"><a href="#cb8-58" aria-hidden="true" tabindex="-1"></a><span class="co">    css: styles.css</span></span>
-<span id="cb8-59"><a href="#cb8-59" aria-hidden="true" tabindex="-1"></a><span class="co">---</span></span>
-<span id="cb8-60"><a href="#cb8-60" aria-hidden="true" tabindex="-1"></a>{{&lt; include _01_intro.qmd &gt;}}</span>
-<span id="cb8-61"><a href="#cb8-61" aria-hidden="true" tabindex="-1"></a>{{&lt; include _02_background.qmd &gt;}}</span>
-<span id="cb8-62"><a href="#cb8-62" aria-hidden="true" tabindex="-1"></a>{{&lt; include _03_methods.qmd &gt;}}</span>
-<span id="cb8-63"><a href="#cb8-63" aria-hidden="true" tabindex="-1"></a>{{&lt; include _04_data.qmd &gt;}}</span>
-<span id="cb8-64"><a href="#cb8-64" aria-hidden="true" tabindex="-1"></a>{{&lt; include _05b_results_Machine_Learning_ScikitLearn.qmd &gt;}}</span>
-<span id="cb8-65"><a href="#cb8-65" aria-hidden="true" tabindex="-1"></a>{{&lt; include _05c_results_Machine_Learning_SARIMAX.qmd &gt;}}</span>
-<span id="cb8-66"><a href="#cb8-66" aria-hidden="true" tabindex="-1"></a>{{&lt; include _06_conclusions.qmd &gt;}}</span>
-<span id="cb8-67"><a href="#cb8-67" aria-hidden="true" tabindex="-1"></a>{{&lt; include _07_bibliography.qmd &gt;}}</span>
-<span id="cb8-68"><a href="#cb8-68" aria-hidden="true" tabindex="-1"></a>{{&lt; include _08_reference.qmd &gt;}}</span></code><button title="Copy to Clipboard" class="code-copy-button" data-in-quarto-modal=""><i class="bi"></i></button></pre></div>
-</div></div></div></div></div>
+</script>
 </div> <!-- /content -->
 
 
